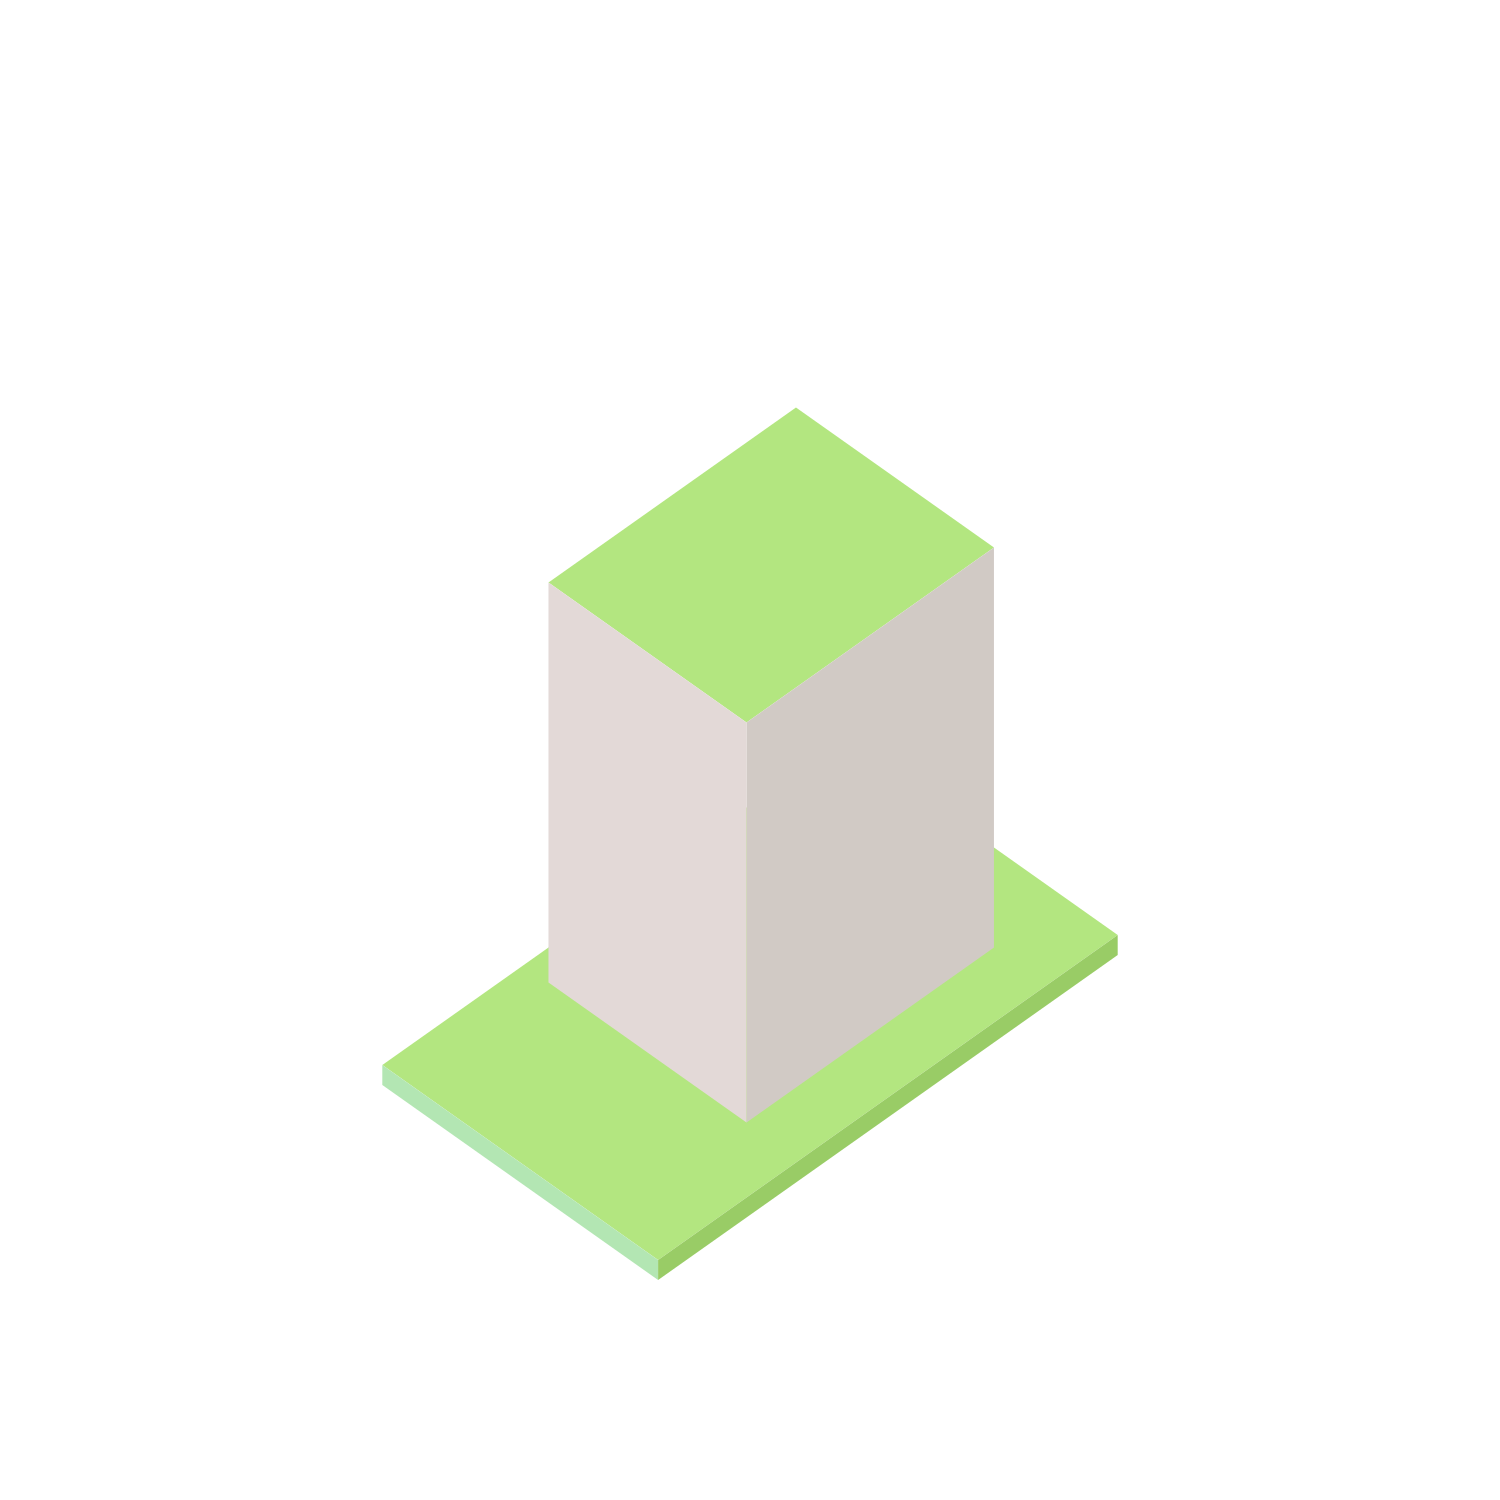
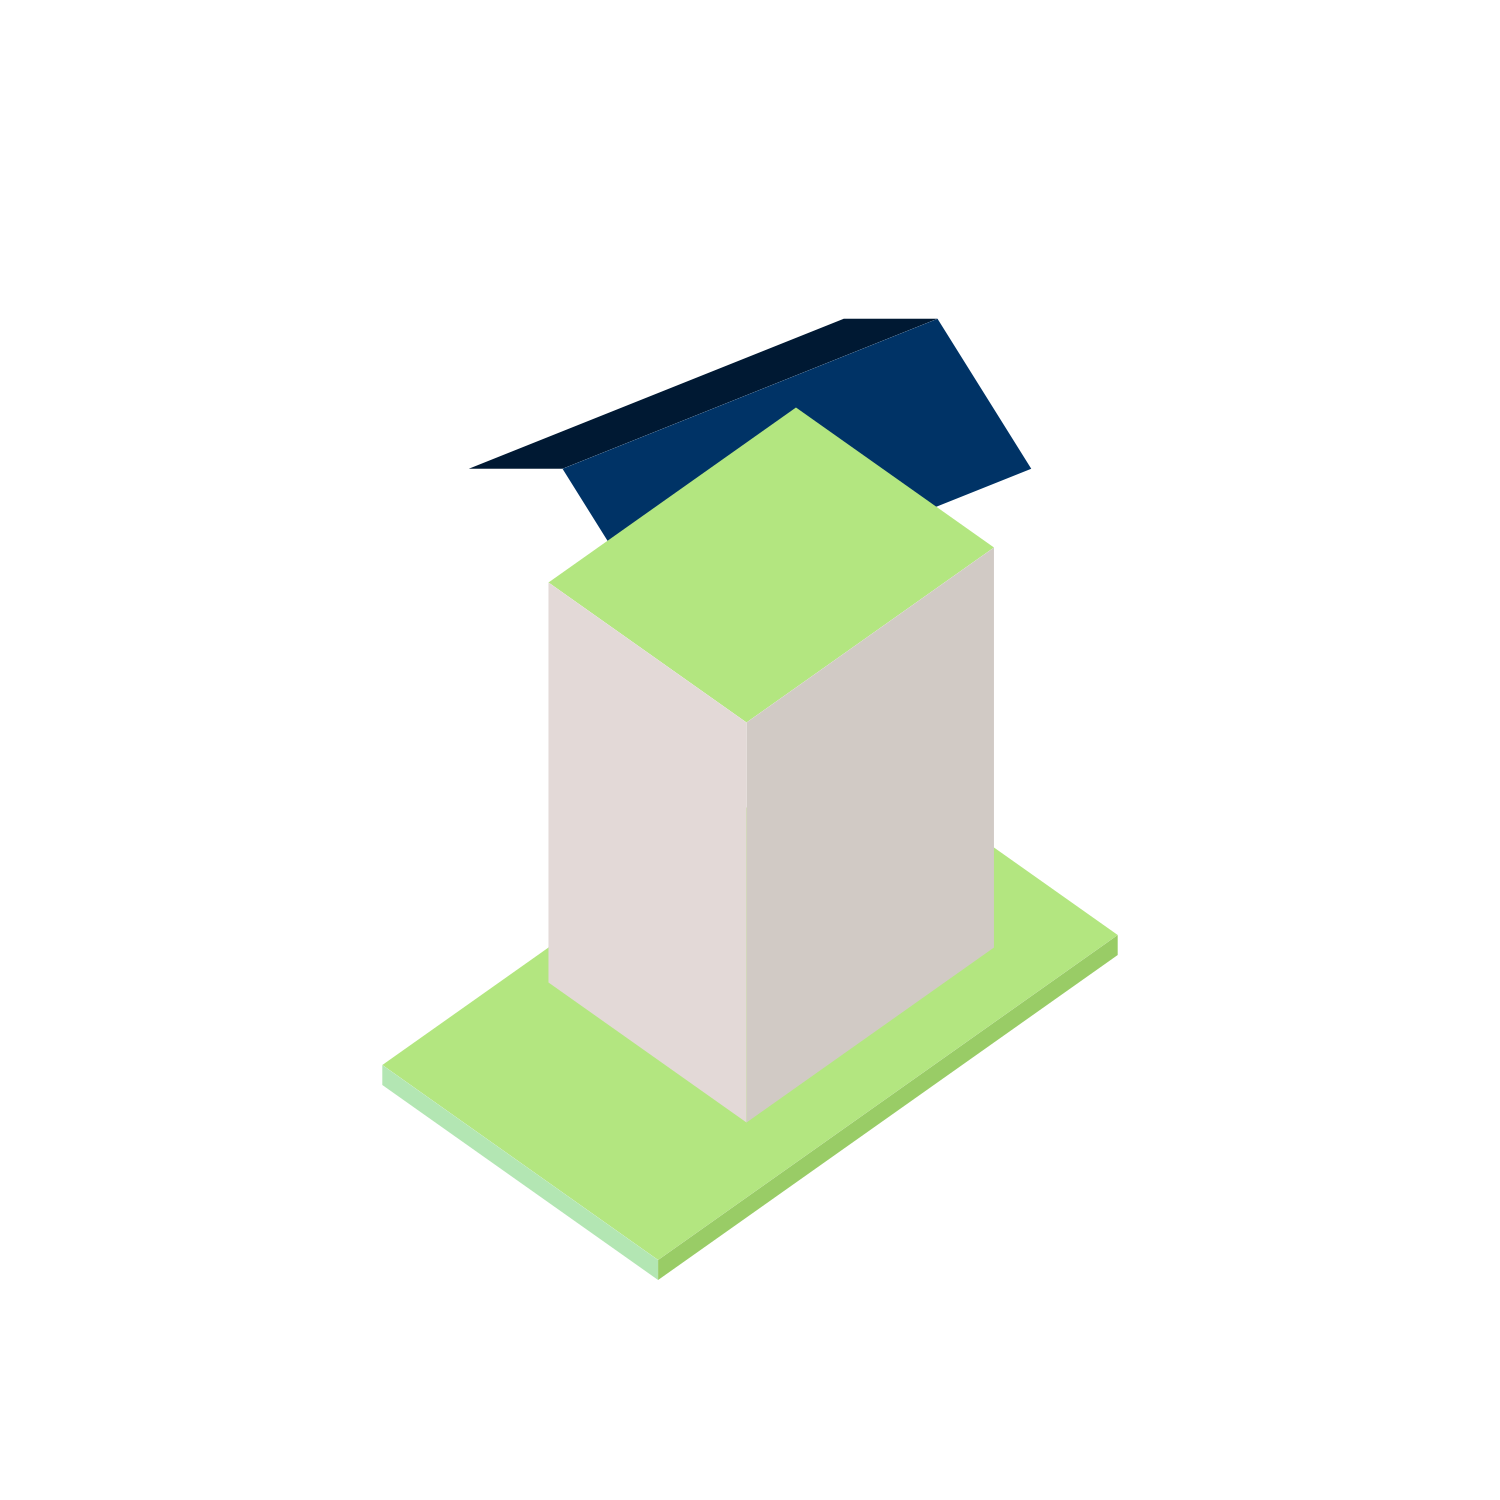
Added Roof

Changed region(s): [[0.3067, 0.2147, 0.7053, 0.368]]

diff --git a/main.py b/main.py
@@ -10,6 +10,28 @@ def draw_house(width=1500, height=1500):
     ctx.set_source_rgb(1, 1, 1)
     ctx.paint()
 
+    ### ROOF ###
+
+    # Left Half
+    ctx.set_source_rgb(0, 25 / 255, 51 / 255)
+    ctx.move_to(300 * 1.875, 250 * 1.875)  # Start of left half
+    ctx.line_to(250 * 1.875, 250 * 1.875)  # Left side of roof
+    ctx.line_to(450 * 1.875, 170 * 1.875)  # Peak of the roof
+    ctx.line_to(500 * 1.875, 170 * 1.875)  # Right side of roof
+    ctx.close_path()
+    ctx.fill()
+
+    # Right Half
+    ctx.set_source_rgb(0, 51 / 255, 102 / 255)
+    ctx.move_to(500 * 1.875, 170 * 1.875)  # Right side of roof
+    ctx.line_to(550 * 1.875, 250 * 1.875)  # Right base of roof
+    ctx.line_to(350 * 1.875, 330 * 1.875)  # Left base of roof
+    ctx.line_to(300 * 1.875, 250 * 1.875)  # Left side of roof
+    ctx.close_path()
+    ctx.fill()
+
+    ## BASE ###
+
     # Move to center of canvas
     ctx.translate(width / 2, height / 1.5)
 
